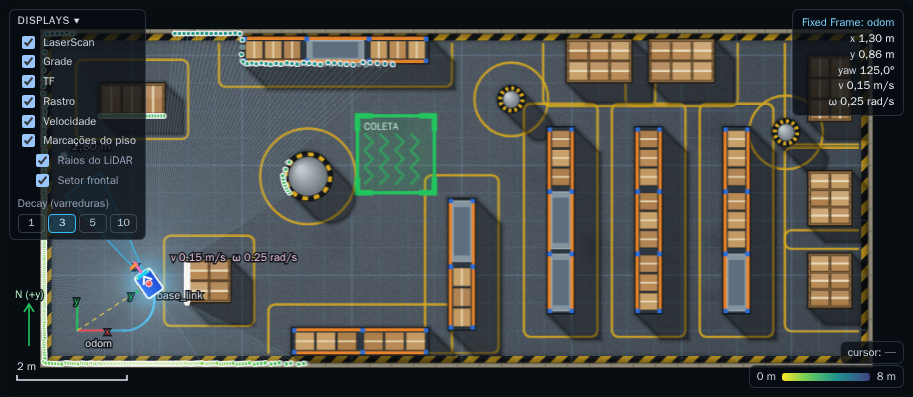
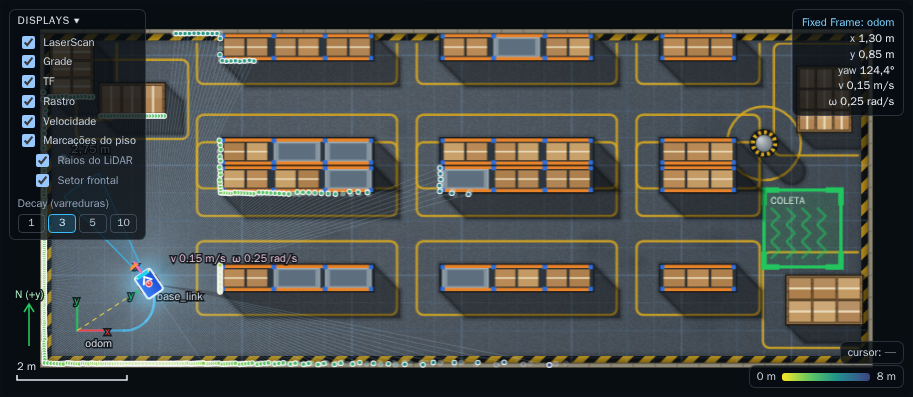
Armazém reconstruído: estantes em corredores e zona de coleta no lado oposto

diff --git a/tests/e2e/viewer-capture.spec.ts b/tests/e2e/viewer-capture.spec.ts
@@ -81,9 +81,9 @@ test("capturas do visor e tempo de frame", async ({ page }) => {
     "true",
     { timeout: 30_000 }
   );
-  await driveTo(page, 3.2, 0.0);
-  await driveTo(page, 3.2, 3.6);
-  await driveTo(page, 5.8, 3.6);
+  await driveTo(page, 2.2, 0.0);
+  await driveTo(page, 2.2, 1.85);
+  await driveTo(page, 13.2, 1.85);
   await expect(page.getByTestId("mission-status")).toHaveAttribute(
     "data-in-zone",
     "true",

diff --git a/tests/e2e/course-helpers.ts b/tests/e2e/course-helpers.ts
@@ -174,7 +174,7 @@ export async function rotateTo(page: Page, target: number, tolerance = 0.07) {
 }
 
 export async function driveTo(page: Page, x: number, y: number, tolerance = 0.1) {
-  for (let attempt = 0; attempt < 16; attempt += 1) {
+  for (let attempt = 0; attempt < 40; attempt += 1) {
     const current = await robotPose(page);
     const dx = x - current.x;
     const dy = y - current.y;

diff --git a/tests/e2e/stage3.spec.ts b/tests/e2e/stage3.spec.ts
@@ -93,8 +93,8 @@ async function solveTask(page: Page, task: CourseTask) {
     case "entrega-zona": {
       const current = await robotPose(page);
       await driveTo(page, 2.2, current.y);
-      await driveTo(page, 2.2, 3.6);
-      await driveTo(page, 5.8, 3.6);
+      await driveTo(page, 2.2, 1.85);
+      await driveTo(page, 13.2, 1.85);
       return;
     }
     default:

diff --git a/tests/integration/test_fastsim_core.py b/tests/integration/test_fastsim_core.py
@@ -50,17 +50,17 @@ class FastSimCoreTest(unittest.TestCase):
             "esquerda": 270,
             "direita": 90,
         }
-        self.assertAlmostEqual(ranges[index["frente"]], 3.9, delta=0.03)
+        self.assertTrue(math.isinf(ranges[index["frente"]]))
         self.assertAlmostEqual(ranges[index["tras"]], 0.6, delta=0.03)
-        self.assertAlmostEqual(ranges[index["esquerda"]], 5.4, delta=0.03)
+        self.assertAlmostEqual(ranges[index["esquerda"]], 4.25, delta=0.03)
         self.assertAlmostEqual(ranges[index["direita"]], 0.6, delta=0.03)
 
     def test_scan_follows_yaw(self):
         facing = self.world.scan(0.0, 0.0, math.pi / 2.0)
-        self.assertAlmostEqual(facing[180], 5.4, delta=0.03)
+        self.assertAlmostEqual(facing[180], 4.25, delta=0.03)
 
     def test_scan_hits_cylinder(self):
-        ranges = self.world.scan(4.2, 1.6, math.pi / 2.0)
+        ranges = self.world.scan(12.5, 2.4, math.pi / 2.0)
         self.assertAlmostEqual(ranges[180], 0.75, delta=0.02)
 
     def test_out_of_range_is_inf(self):
@@ -87,10 +87,10 @@ class FastSimCoreTest(unittest.TestCase):
         self.assertLessEqual(robot.angular, core.MAX_ANGULAR + 1e-9)
 
     def test_stops_at_rack(self):
-        robot = core.FastRobot(self.world)
+        robot = core.FastRobot(self.world, 4.0, 0.0, math.pi / 2.0)
         drive(robot, 0.35, 0.0, 14.0)
-        self.assertLess(robot.x, 3.9 - core.ROBOT_HALF_LENGTH + 0.01)
-        self.assertGreater(robot.x, 3.4)
+        self.assertLess(robot.y, 0.7 - core.ROBOT_HALF_LENGTH + 0.01)
+        self.assertGreater(robot.y, 0.4)
         self.assertFalse(self.world.collides(robot.x, robot.y, robot.yaw))
 
     def test_stops_at_wall(self):
@@ -99,13 +99,13 @@ class FastSimCoreTest(unittest.TestCase):
         self.assertGreaterEqual(robot.x, -0.6 + core.ROBOT_HALF_LENGTH - 0.01)
 
     def test_stops_at_cylinder(self):
-        robot = core.FastRobot(self.world, 4.2, 1.2, math.pi / 2.0)
+        robot = core.FastRobot(self.world, 12.5, 2.0, math.pi / 2.0)
         drive(robot, 0.3, 0.0, 6.0)
-        self.assertLess(robot.y, 2.8 - 0.45 - core.ROBOT_HALF_LENGTH + 0.01)
+        self.assertLess(robot.y, 3.4 - 0.25 - core.ROBOT_HALF_LENGTH + 0.01)
 
     def test_slides_along_obstacle(self):
-        robot = core.FastRobot(self.world, 3.0, 0.0, 0.0)
-        drive(robot, 0.35, 0.0, 6.0)
+        robot = core.FastRobot(self.world, 11.0, 0.1, 0.0)
+        drive(robot, 0.35, 0.0, 8.0)
         blocked_x = robot.x
         robot.yaw = math.pi / 2.0
         drive(robot, 0.2, 0.0, 2.0)
@@ -113,11 +113,11 @@ class FastSimCoreTest(unittest.TestCase):
         self.assertAlmostEqual(robot.x, blocked_x, delta=0.05)
 
     def test_zone_is_reachable_without_collision(self):
-        robot = core.FastRobot(self.world, 5.8, 3.2, 0.0)
+        robot = core.FastRobot(self.world, 13.2, 1.85, 0.0)
         self.assertFalse(self.world.collides(robot.x, robot.y, robot.yaw))
 
     def test_blocked_flag(self):
-        robot = core.FastRobot(self.world)
+        robot = core.FastRobot(self.world, 11.0, 0.1, 0.0)
         drive(robot, 0.35, 0.0, 14.0)
         self.assertTrue(robot.blocked)
 
@@ -129,16 +129,15 @@ class FastSimCoreTest(unittest.TestCase):
         self.assertEqual((robot.x, robot.y, robot.yaw), (0.0, 0.0, 0.0))
         self.assertEqual((robot.linear, robot.angular), (0.0, 0.0))
 
-    def test_east_structures_do_not_overlap_each_other(self):
-        for item in self.world.boxes:
-            self.assertFalse(
-                self.world.collides(0.0, 0.0, 0.0), "spawn must stay free"
-            )
-
     def test_wide_floor_has_wall_at_east_end(self):
-        robot = core.FastRobot(self.world, 14.0, 2.0, 0.0)
-        ranges = self.world.scan(robot.x, robot.y, robot.yaw)
-        self.assertLess(float(min(ranges[170:190])), 1.0)
+        ranges = self.world.scan(12.0, 1.85, 0.0)
+        self.assertAlmostEqual(float(ranges[180]), 2.4, delta=0.03)
+
+    def test_main_aisle_is_open_to_the_zone(self):
+        robot = core.FastRobot(self.world, 2.2, 1.85, 0.0)
+        drive(robot, 0.3, 0.0, 36.0)
+        self.assertGreater(robot.x, 12.5)
+        self.assertFalse(robot.blocked)
 
 
 if __name__ == "__main__":

diff --git a/tests/integration/test_world_geometry.py b/tests/integration/test_world_geometry.py
@@ -61,13 +61,13 @@ class WorldGeometryTest(unittest.TestCase):
         self.assertAlmostEqual(data["spawn"]["y"], 0.0)
         self.assertAlmostEqual(data["spawn"]["z"], 0.15)
         self.assertEqual(data["zone"]["id"], "coleta")
-        self.assertEqual(data["zone"]["bounds"]["min"], [5.1, 2.5])
-        self.assertEqual(data["zone"]["bounds"]["max"], [6.5, 3.9])
-        self.assertEqual(len(data["obstacles"]), 16)
+        self.assertEqual(data["zone"]["bounds"]["min"], [12.5, 1.15])
+        self.assertEqual(data["zone"]["bounds"]["max"], [13.9, 2.55])
+        self.assertEqual(len(data["obstacles"]), 17)
         kinds = {item["id"]: item["kind"] for item in data["obstacles"]}
-        self.assertEqual(kinds["caixa_a"], "crate")
-        self.assertEqual(kinds["coluna_b"], "pillar")
-        self.assertEqual(kinds["rack_norte"], "rack")
+        self.assertEqual(kinds["caixa_c"], "crate")
+        self.assertEqual(kinds["coluna_doca"], "pillar")
+        self.assertEqual(kinds["rack_norte_a"], "rack")
 
     def test_zone_is_inside_warehouse(self):
         data = load_map()
@@ -83,9 +83,11 @@ class WorldGeometryTest(unittest.TestCase):
         spawn = (data["spawn"]["x"], data["spawn"]["y"])
         route = [
             spawn,
-            (3.2, 0.0),
-            (3.2, 3.6),
-            (5.8, 3.6),
+            (1.0, 0.0),
+            (1.0, 3.3),
+            (2.2, 3.3),
+            (2.2, 1.85),
+            (13.2, 1.85),
             tuple(data["zone"]["center"]),
         ]
         clearance = 0.28
@@ -148,8 +150,8 @@ class WorldGeometryTest(unittest.TestCase):
             self.assertIn("wall_south", model_names)
             self.assertIn("wall_north", model_names)
             self.assertIn("zona_coleta", model_names)
-            self.assertIn("caixa_a", model_names)
-            self.assertIn("coluna_b", model_names)
+            self.assertIn("rack_sul_a", model_names)
+            self.assertIn("coluna_doca", model_names)
             self.assertIn("caixa_c", model_names)
             self.assertFalse(world.findall(".//include"))
             self.assertFalse(world.findall(".//uri"))

diff --git a/AGENTS.md b/AGENTS.md
@@ -231,14 +231,17 @@ o que passou e o que permanece pendente.
   paredes, pallets, racks e pilar desenhados a partir do `map.json`, robô fiel
   ao URDF, TF, rastro, vetor de velocidade e LiDAR por distância. Não há
   visão em primeira pessoa nem câmera Gazebo.
-- O armazém tem três racks reais (`rack_norte`, `rack_leste`, `rack_sul`) em
+- O armazém tem três racks reais (`rack_<fileira>_<segmento>`) em
   `armazem.yaml`, com `kind: rack`; só o piso recebe decoração (faixas, zebrado,
   juntas), nada pintado parece obstáculo se não existir no Gazebo.
-- O armazém tem 15 m × 6 m: a metade oeste (zona, caixas A e C, coluna B e os
-  três racks originais) é a que o curso usa; a leste há três estantes em
-  corredores, paletes, volumes de doca e duas colunas. O botão **Resetar robô**
-  leva o robô ao spawn sem perder o progresso (`POST /api/session/reset-pose`;
-  `fastsim` recebe `/launchpad/_reset_pose`, o Gazebo usa `gz service set_pose`).
+- O armazém tem 15 m × 6 m, com o desenho de um armazém real: área de
+  recebimento no oeste (spawn, caixa C e palete), três fileiras de estantes ao
+  longo de x em segmentos de 2,8 m com corredores de 1,2–1,4 m e cruzamentos de
+  1,2 m, e a doca no extremo leste, onde fica a zona de coleta (x 12,5–13,9,
+  y 1,15–2,55). A rota da entrega segue o corredor do meio (y ≈ 1,85). O botão
+  **Resetar robô** leva o robô ao spawn sem perder o progresso
+  (`POST /api/session/reset-pose`; `fastsim` recebe `/launchpad/_reset_pose`, o
+  Gazebo usa `gz service set_pose`).
 - As dimensões do robô no visor ficam em `apps/web/src/robot.ts` e são
   conferidas contra o URDF por `make test-robot`.
 - O terminal tem foco explícito ao inserir, botão **Focar terminal**,

diff --git a/docs/course-calibration.md b/docs/course-calibration.md
@@ -66,3 +66,12 @@ conduz em malha fechada.
   1,6; a dica orienta mirar no meio da faixa B.
 - Entrega: o corredor acima da coluna B exige y ≥ ~3,5 (topo da coluna em
   3,25 mais a meia largura de 0,21 m); a estratégia usa y ≈ 3,6.
+
+## Mapa v4 (armazém largo)
+
+O armazém passou a 15 m × 6 m, com estantes em corredores e a zona de coleta
+no extremo leste (x 12,5–13,9; y 1,15–2,55). As faixas A e B e a caixa C, que
+sustentam os desafios de pose e LiDAR, continuam no oeste, sem mudança. A
+entrega agora segue: leste até x ≈ 2,2, sul até y ≈ 1,85 (centro do corredor
+entre as duas primeiras fileiras) e leste por ~11 m até a zona. O Playwright
+conduz em malha fechada (`driveTo`) e passou no `fastsim`.
